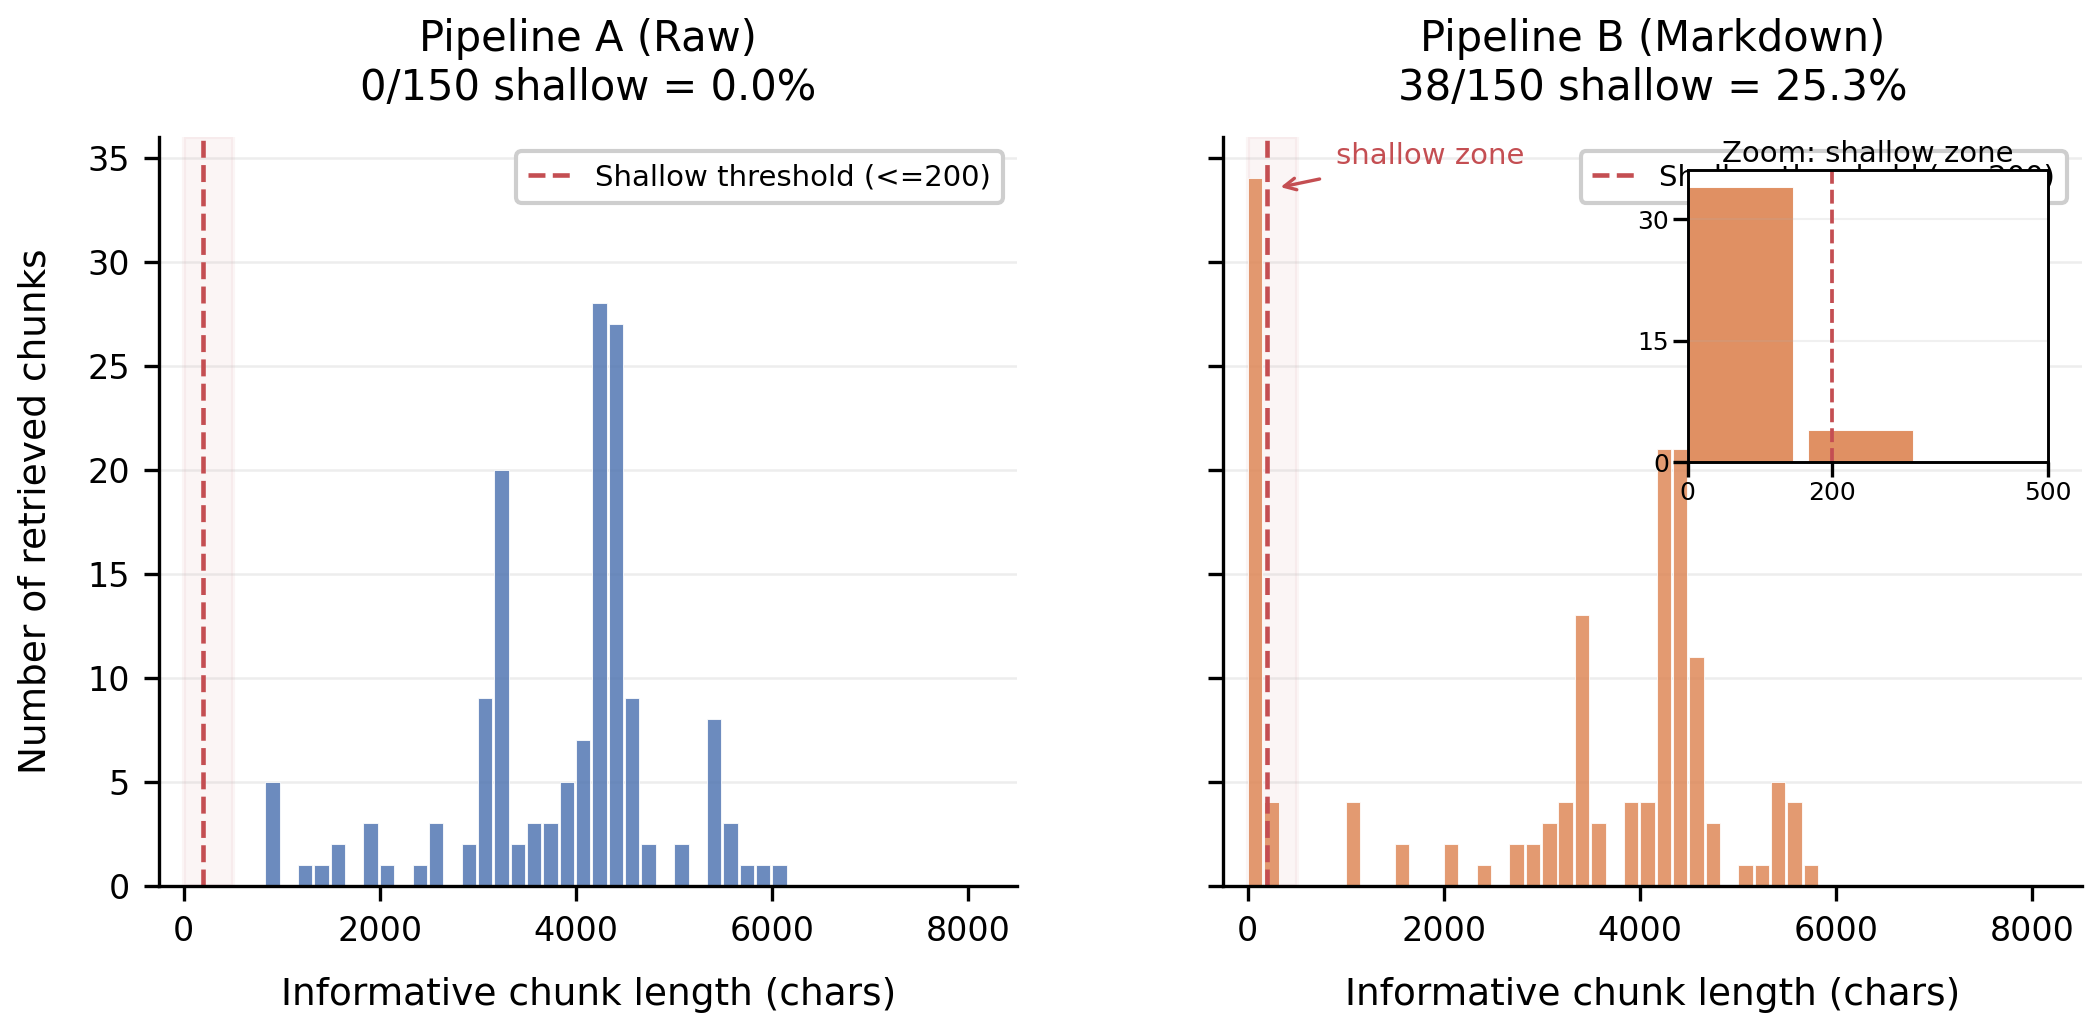
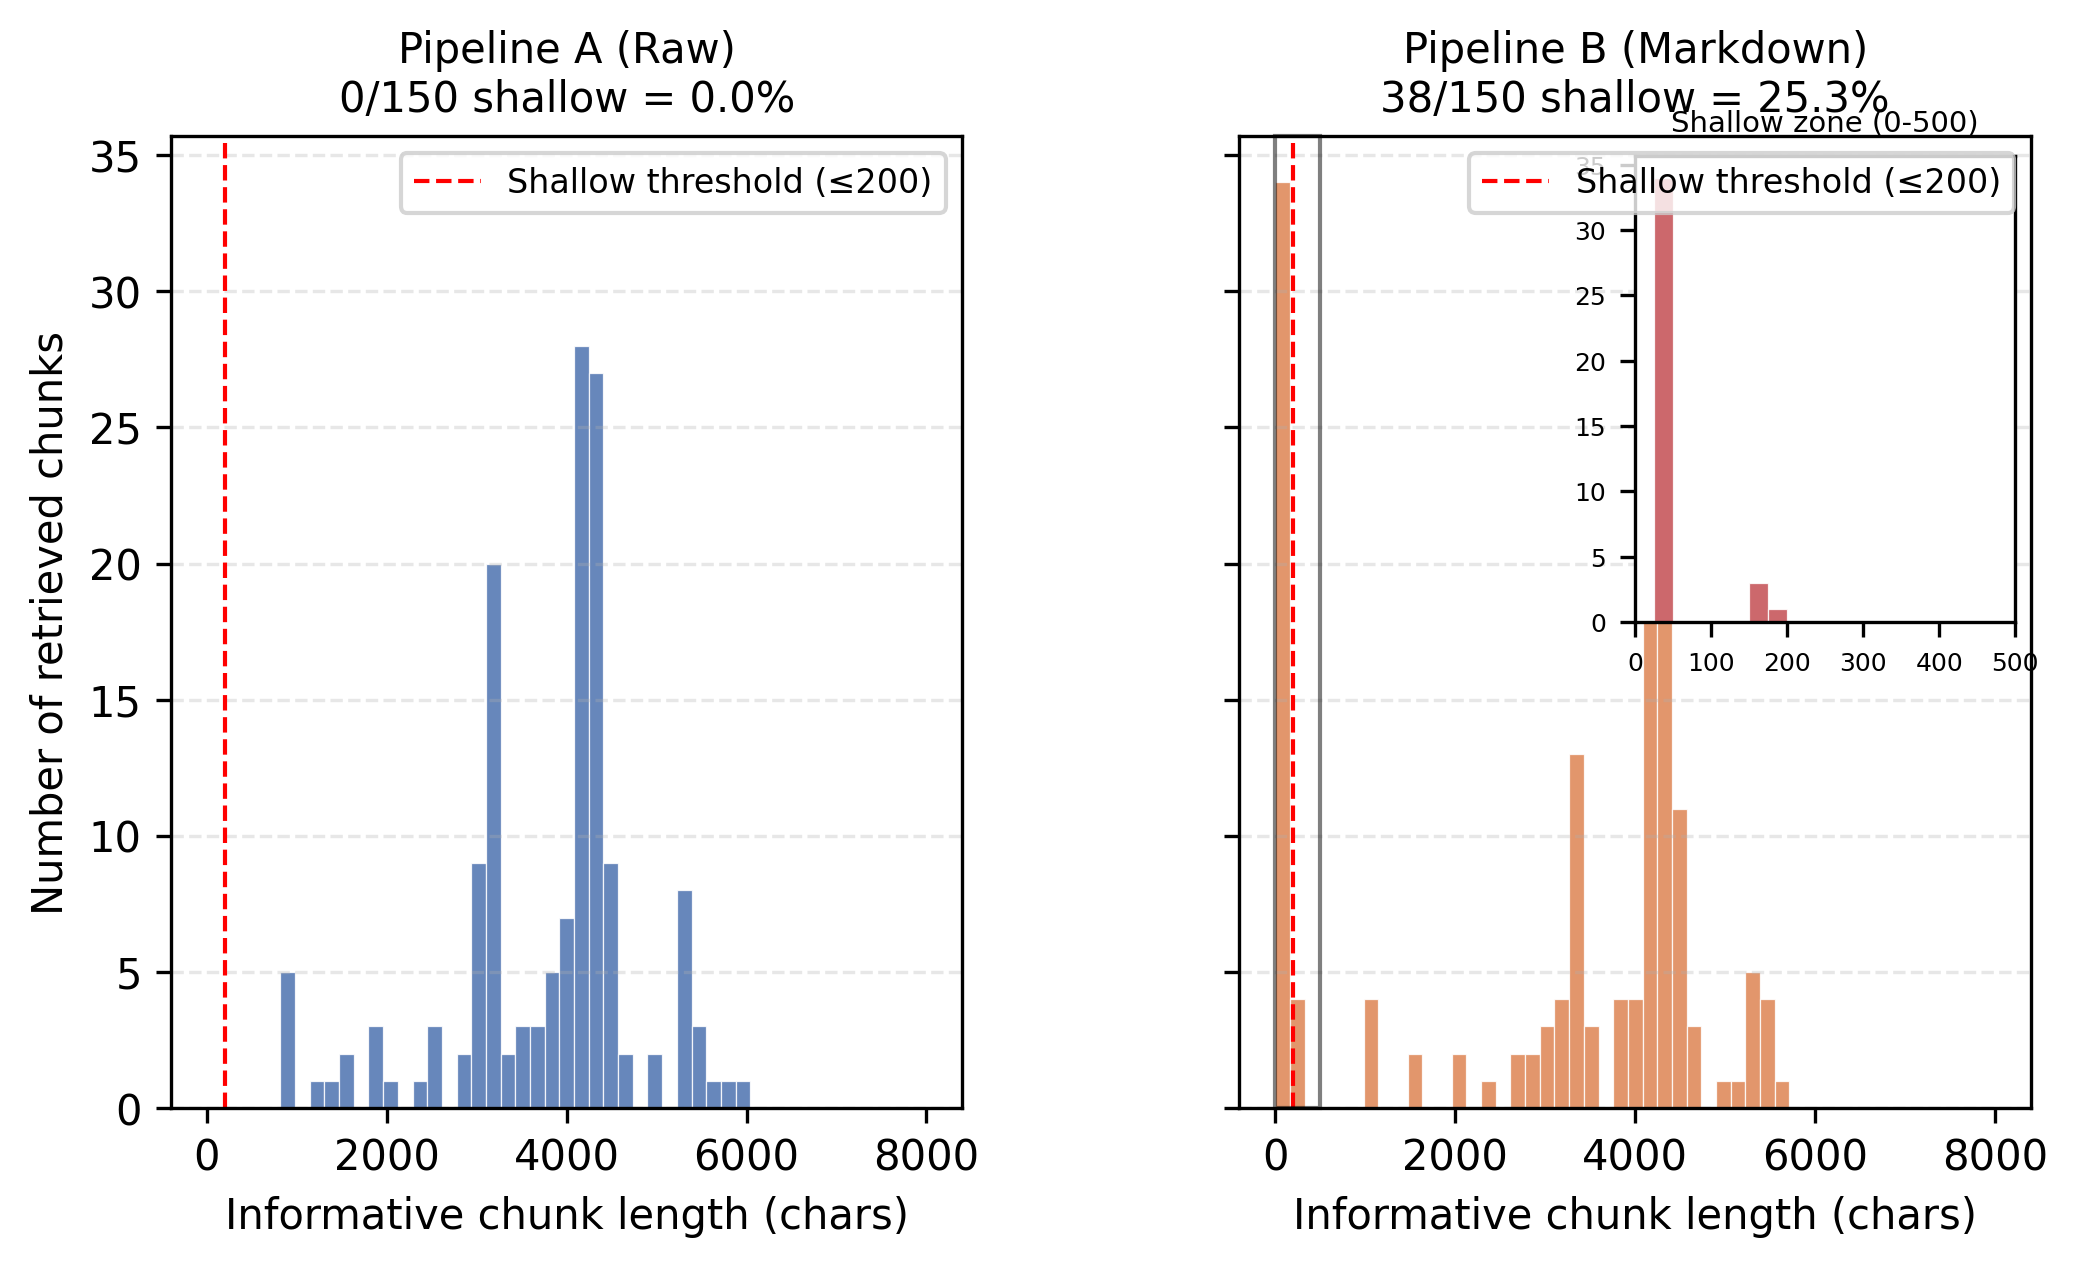
fix: aggiorna figure con Gemma 3 4B invece di Qwen 0.8B, delta corretti

Changed region(s): [[0.5544, 0.0, 0.9856, 0.9932], [0.0, 0.0, 0.4928, 0.9932], [0.2156, 0.4345, 0.2464, 0.4656]]

diff --git a/paper/generate_figures.py b/paper/generate_figures.py
@@ -38,9 +38,9 @@ COLORS = {
 # ============================================================
 
 def figure1_scores():
-    models = ["Qwen 0.8B\n(800M)", "Nemotron 3\n(~3B)", "DeepSeek V4\nFlash", "Gemma 4 26B\n(26B)"]
-    scores_a = [2.50, 2.46, 2.98, 3.12]
-    scores_b = [2.56, 2.28, 2.76, 2.86]
+    models = ["Gemma 3 4B\n(4B)", "Nemotron 3\n(~3B)", "DeepSeek V4\nFlash", "Gemma 4 26B\n(26B)"]
+    scores_a = [2.29, 2.46, 2.98, 3.12]
+    scores_b = [1.99, 2.28, 2.76, 2.86]
     
     x = np.arange(len(models))
     width = 0.35
@@ -80,9 +80,9 @@ def figure1_scores():
 
 def figure2_delta():
     # Use log scale for params, ordered by pipeline B-A delta
-    models = ["Qwen 0.8B", "Nemotron 3", "DeepSeek V4 Flash", "Gemma 4 26B"]
-    sizes = [0.8e9, 3e9, 10e9, 26e9]  # DeepSeek size unknown, placeholder at 10B
-    deltas = [0.06, -0.18, -0.22, -0.26]
+    models = ["Gemma 3 4B", "Nemotron 3", "DeepSeek V4 Flash", "Gemma 4 26B"]
+    sizes = [4e9, 3e9, 10e9, 26e9]  # DeepSeek size unknown, placeholder at 10B
+    deltas = [-0.30, -0.18, -0.22, -0.26]
     colors = [COLORS["delta_neg"] if d < 0 else COLORS["delta_pos"] for d in deltas]
     
     fig, ax = plt.subplots(figsize=(6.5, 4.5))